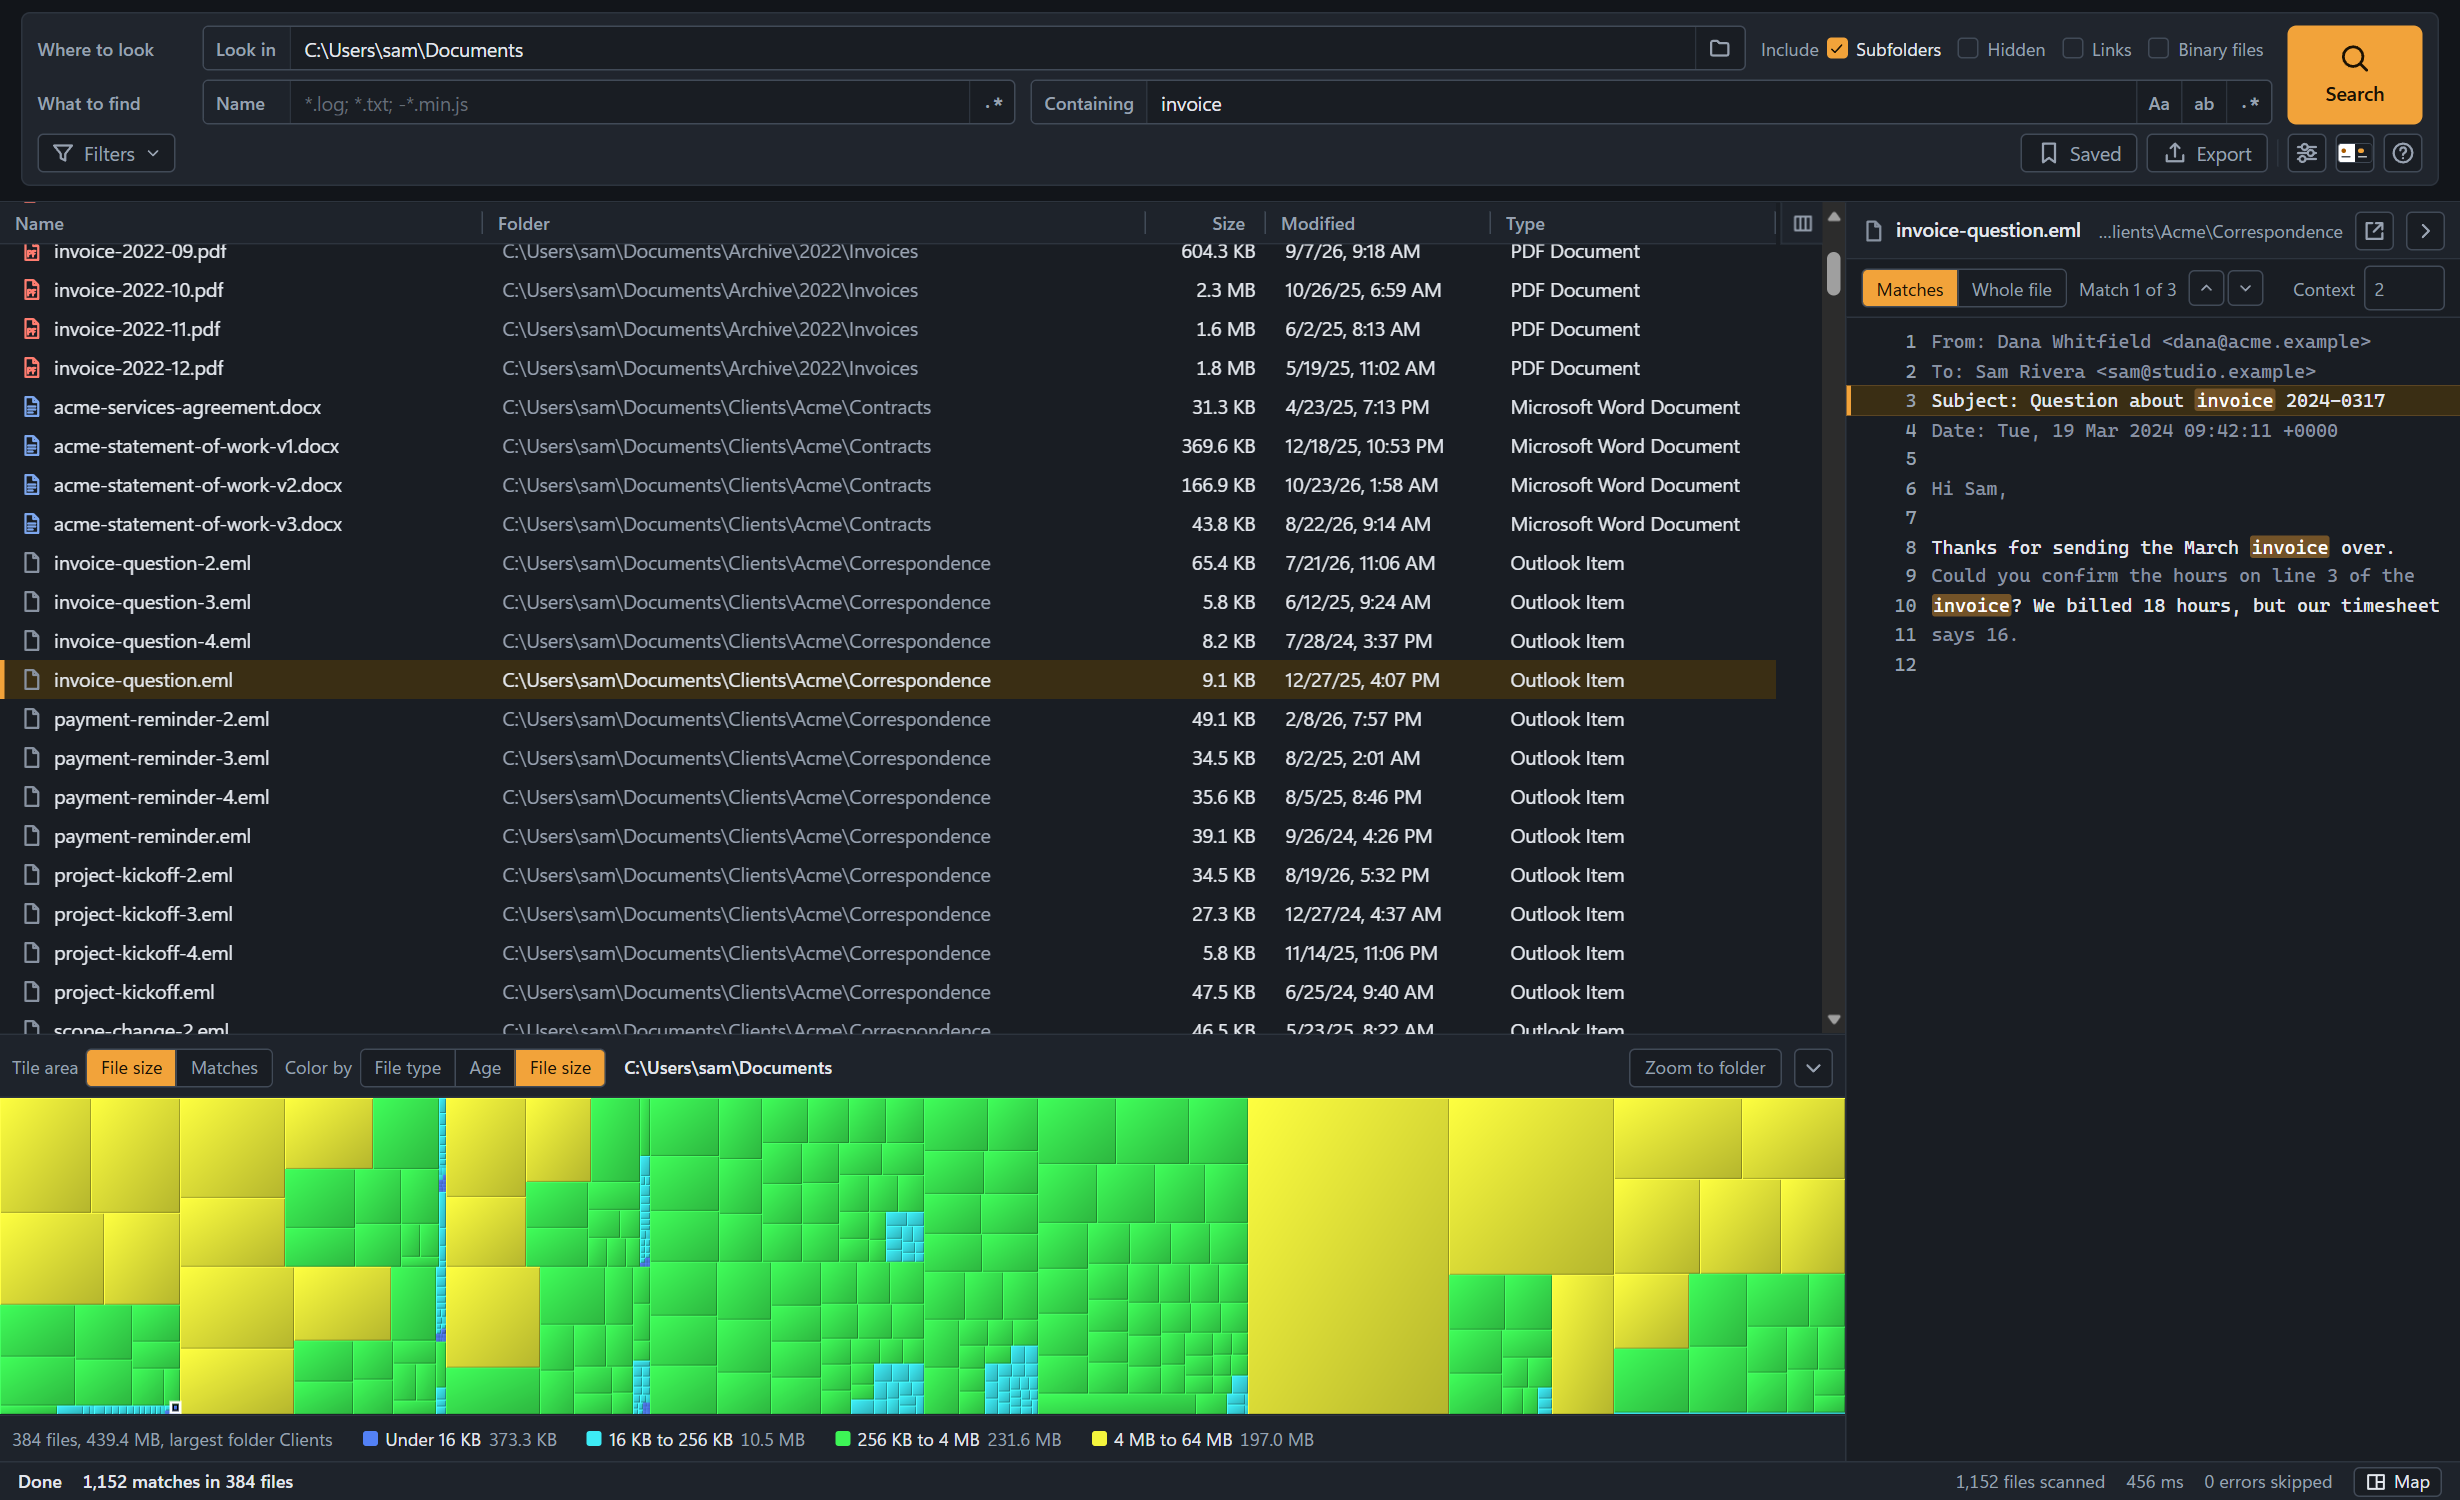
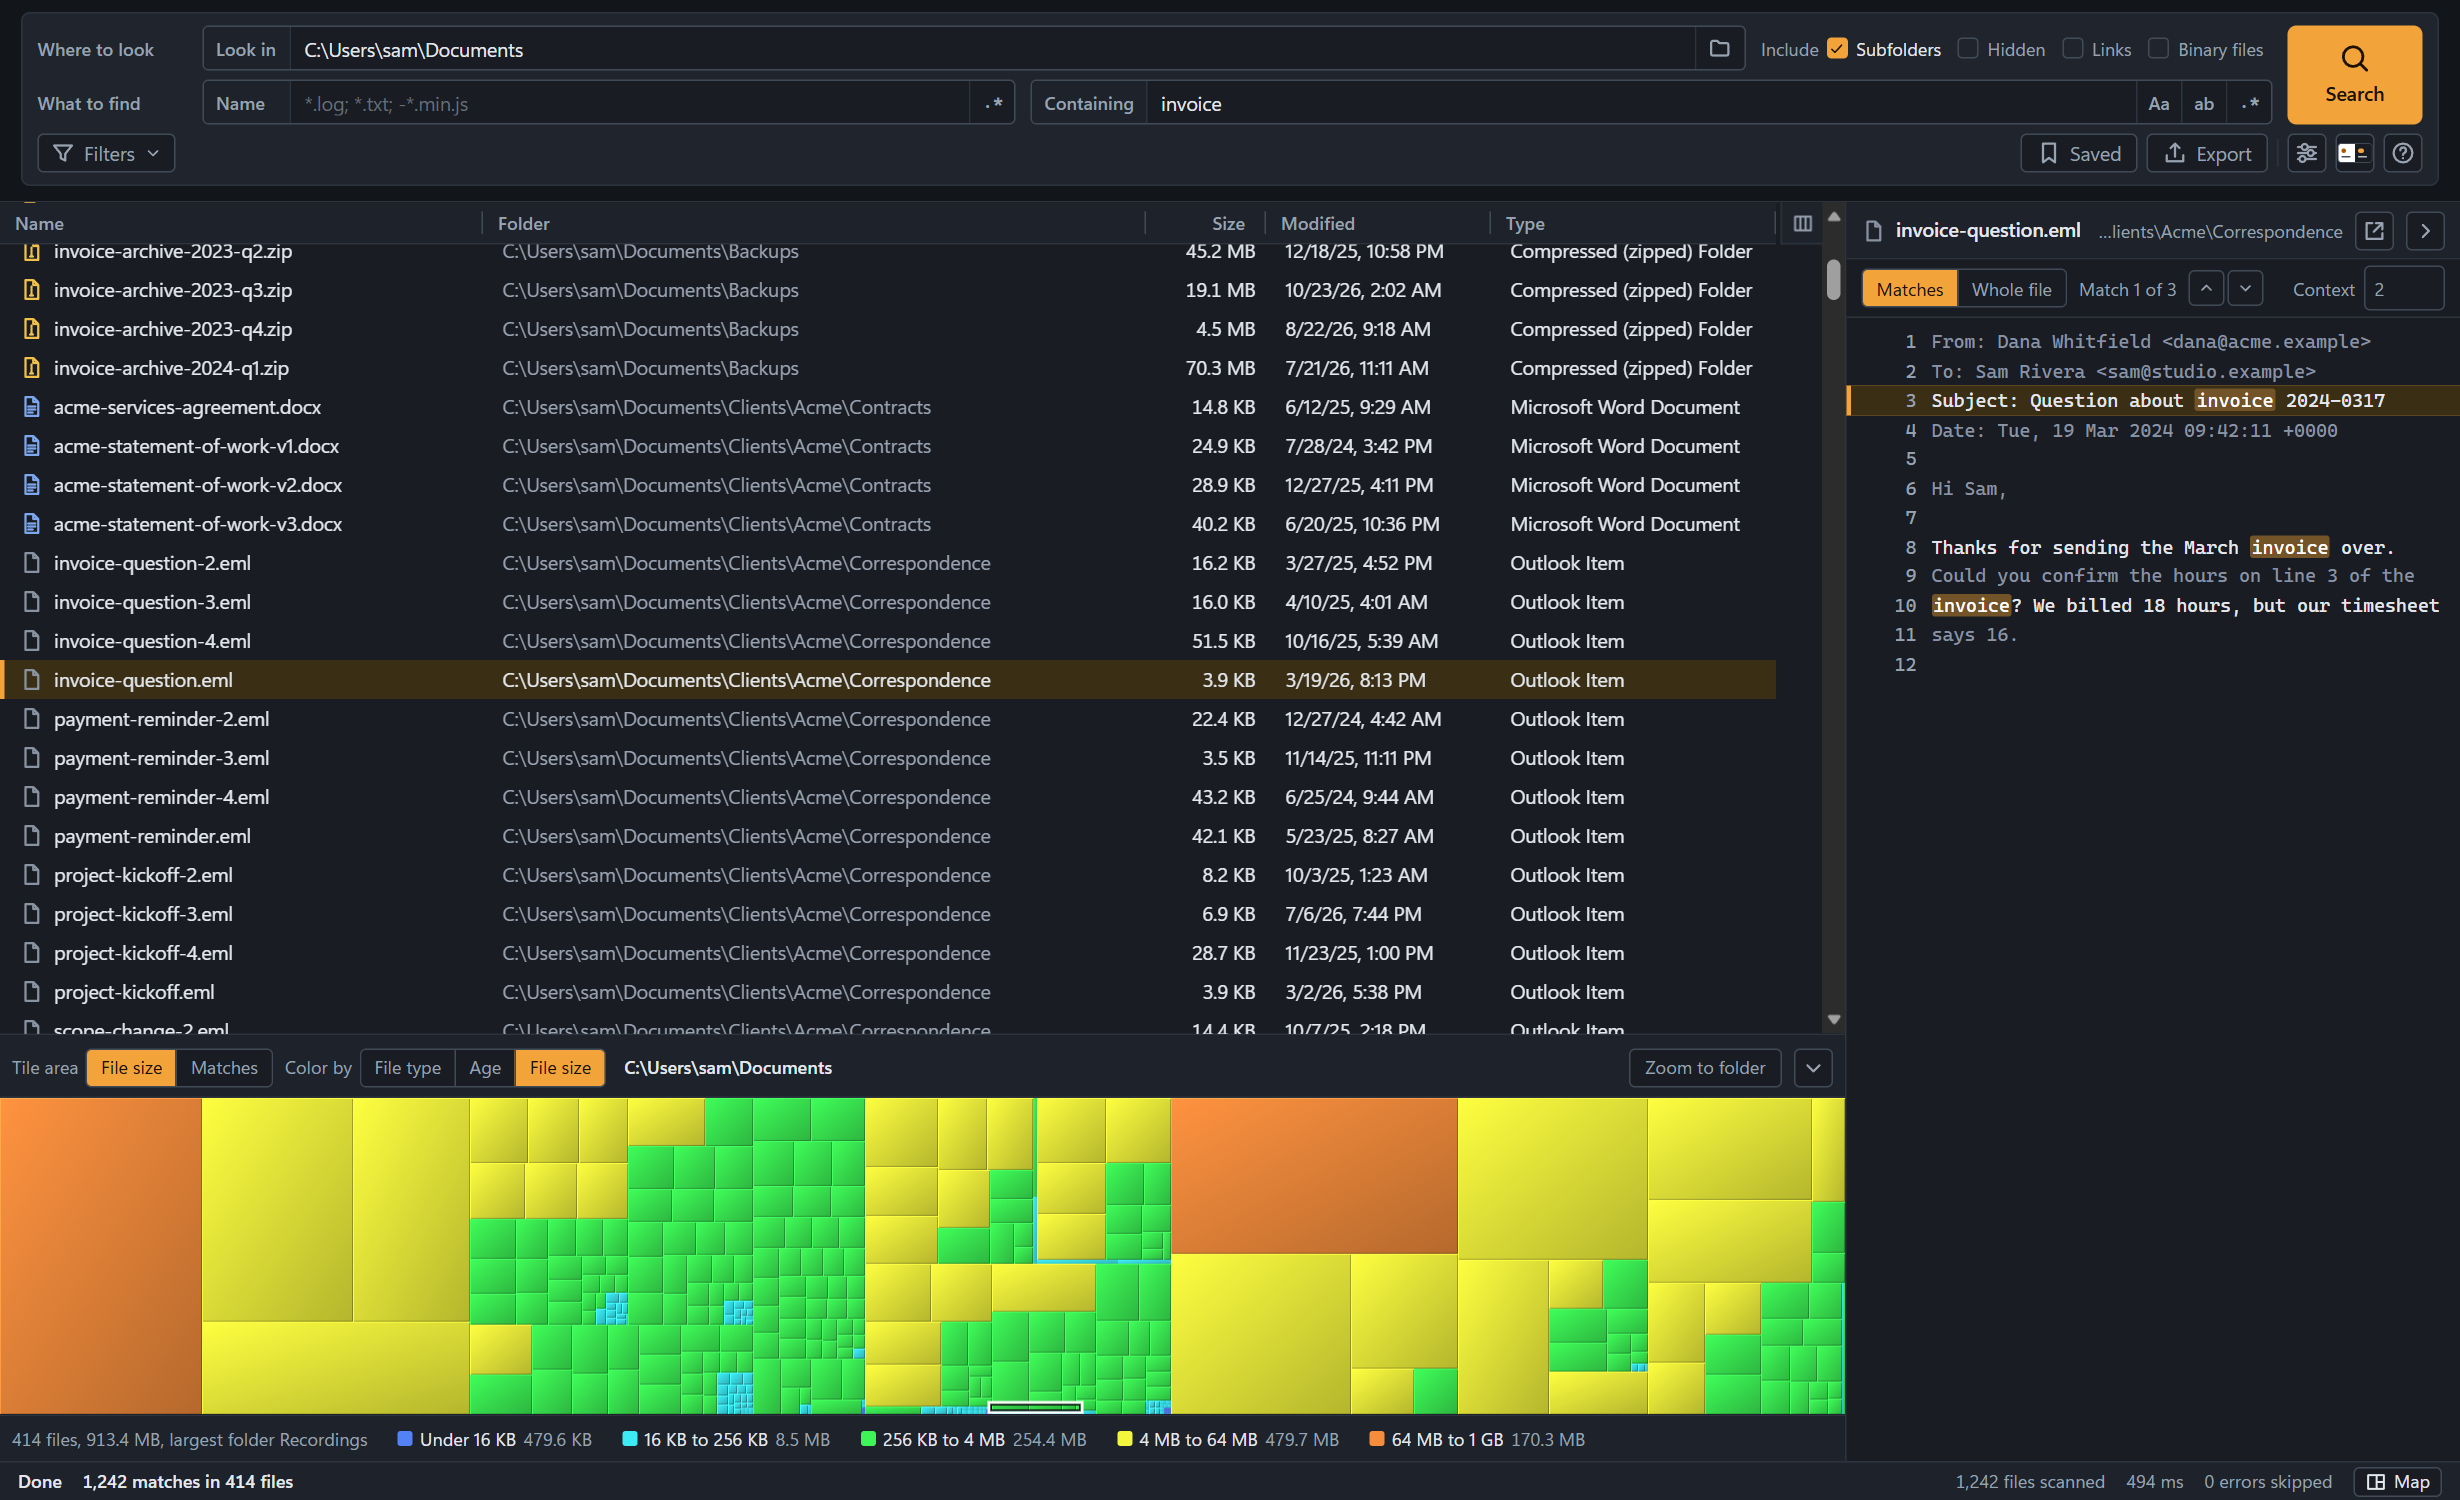
Give the demo file map more variety
The invented documents folder now has presentations, exports, notes, backups and recordings, and its sizes span five of the map's size bands, so the README screenshot shows a varied map. No single file may exceed a sixth of the total, so one tile cannot swamp the rest.

diff --git a/src/lib/demoFixture.ts b/src/lib/demoFixture.ts
@@ -17,17 +17,22 @@ export const DEMO_NOTE_PATH = `${ROOT}\\Clients\\Acme\\Correspondence\\invoice-q
 const MB = 1024 * 1024;
 const DAY_MS = 86_400_000;
 
-type Kind = 'pdf' | 'docx' | 'xlsx' | 'md' | 'png' | 'jpg' | 'eml';
+type Kind = 'pdf' | 'docx' | 'xlsx' | 'md' | 'png' | 'jpg' | 'eml' | 'zip' | 'mp4' | 'pptx' | 'csv' | 'txt';
 
 /** The type name Windows shows, and the size range (log-uniform, in bytes) for each kind of file. */
 const KINDS: Record<Kind, { typeName: string; minSize: number; maxSize: number }> = {
-  pdf: { typeName: 'PDF Document', minSize: 60 * 1024, maxSize: 3 * MB },
-  docx: { typeName: 'Microsoft Word Document', minSize: 30 * 1024, maxSize: 700 * 1024 },
-  xlsx: { typeName: 'Microsoft Excel Worksheet', minSize: 20 * 1024, maxSize: 900 * 1024 },
-  md: { typeName: 'Markdown File', minSize: 2 * 1024, maxSize: 40 * 1024 },
+  pdf: { typeName: 'PDF Document', minSize: 40 * 1024, maxSize: 6 * MB },
+  docx: { typeName: 'Microsoft Word Document', minSize: 12 * 1024, maxSize: 700 * 1024 },
+  xlsx: { typeName: 'Microsoft Excel Worksheet', minSize: 8 * 1024, maxSize: 2 * MB },
+  md: { typeName: 'Markdown File', minSize: 1024, maxSize: 40 * 1024 },
   png: { typeName: 'PNG File', minSize: 300 * 1024, maxSize: 8 * MB },
   jpg: { typeName: 'JPEG Image', minSize: 200 * 1024, maxSize: 4 * MB },
-  eml: { typeName: 'Outlook Item', minSize: 5 * 1024, maxSize: 80 * 1024 },
+  eml: { typeName: 'Outlook Item', minSize: 3 * 1024, maxSize: 80 * 1024 },
+  zip: { typeName: 'Compressed (zipped) Folder', minSize: 3 * MB, maxSize: 90 * MB },
+  mp4: { typeName: 'MP4 Video', minSize: 30 * MB, maxSize: 95 * MB },
+  pptx: { typeName: 'Microsoft PowerPoint Presentation', minSize: 1 * MB, maxSize: 40 * MB },
+  csv: { typeName: 'Microsoft Excel Comma Separated Values File', minSize: 4 * 1024, maxSize: 4 * MB },
+  txt: { typeName: 'Text Document', minSize: 400, maxSize: 30 * 1024 },
 };
 
 const CLIENTS = ['Acme', 'Globex', 'Initech', 'Umbrella', 'Hooli'];
@@ -86,6 +91,14 @@ function entries(random: () => number): Entry[] {
   add('Projects\\site-redesign\\docs', 'invoice-template.docx', 'docx');
   for (const name of ['billing-flow', 'onboarding', 'release-checklist', 'api-notes']) add('Projects\\mobile-app\\specs', `${name}.md`, 'md');
   for (let number = 1; number <= 18; number++) add('Projects\\mobile-app\\design', `mockup-${String(number).padStart(2, '0')}.png`, 'png');
+
+  for (const quarter of ['q1', 'q2', 'q3', 'q4']) add('Finance\\Exports', `invoices-export-${quarter}-2024.csv`, 'csv');
+  for (const client of CLIENTS) add('Finance\\Exports', `invoices-${client.toLowerCase()}-all-time.csv`, 'csv');
+  for (const name of ['pricing', 'kickoff-template', 'quarterly-review', 'pitch', 'training']) add('Presentations', `${name}-invoice-process.pptx`, 'pptx');
+  for (const name of ['todo', 'phone-numbers', 'invoice-reminders', 'ideas', 'passwords-hint', 'shopping', 'travel']) add('Notes', `${name}.txt`, 'txt');
+  for (const quarter of ['2023-q1', '2023-q2', '2023-q3', '2023-q4', '2024-q1']) add('Backups', `invoice-archive-${quarter}.zip`, 'zip');
+  for (const month of ['03', '06', '09']) add('Recordings\\Walkthroughs', `billing-walkthrough-2024-${month}.mp4`, 'mp4');
+  add('Recordings\\Walkthroughs', 'invoice-system-demo-full.mp4', 'mp4', 100 * MB);
 
   add('Archive\\2022', 'year-end-report.pdf', 'pdf', 48 * MB);
   add('Archive\\2022', 'scans-2022.pdf', 'pdf', 22 * MB);

diff --git a/src/lib/demoFixture.test.ts b/src/lib/demoFixture.test.ts
@@ -2,6 +2,7 @@ import { describe, expect, it } from 'vitest';
 import { DEMO_NOTE_PATH, DEMO_QUERY, demoPreview, demoRows } from './demoFixture';
 
 const NOW = Date.UTC(2026, 5, 15, 12, 0, 0);
+const MB = 1024 * 1024;
 
 describe('the demo fixture', () => {
   it('is the same every time it is made for the same moment', () => {
@@ -18,7 +19,7 @@ describe('the demo fixture', () => {
   it('is big enough to fill a map, with each path once and a hit in every file', () => {
     const rows = demoRows(NOW);
     expect(rows.length).toBeGreaterThanOrEqual(250);
-    expect(rows.length).toBeLessThanOrEqual(450);
+    expect(rows.length).toBeLessThanOrEqual(500);
     expect(new Set(rows.map((row) => row.path)).size).toBe(rows.length);
     for (const row of rows) expect(row.hits, row.path).toBeGreaterThanOrEqual(1);
   });
@@ -28,6 +29,15 @@ describe('the demo fixture', () => {
     expect(new Set(rows.map((row) => row.typeName)).size).toBeGreaterThanOrEqual(6);
     expect(rows.some((row) => row.size > 40 * 1024 * 1024)).toBe(true);
     expect(rows.filter((row) => row.size < 100 * 1024).length).toBeGreaterThan(40);
+  });
+
+  it('puts files in the size bands from tiny to 64 MB and over, with none so big it swamps the map', () => {
+    const rows = demoRows(NOW);
+    const limits = [16 * 1024, 256 * 1024, 4 * MB, 64 * MB];
+    const bandOf = (size: number) => limits.filter((limit) => size >= limit).length;
+    expect([...new Set(rows.map((row) => bandOf(row.size)))].sort()).toEqual([0, 1, 2, 3, 4]);
+    const total = rows.reduce((sum, row) => sum + row.size, 0);
+    expect(Math.max(...rows.map((row) => row.size))).toBeLessThan(total / 6);
   });
 
   it('lists the folders in name order, as a search does', () => {

diff --git a/scratchpad_edit.py b/scratchpad_edit.py
@@ -1,0 +1,39 @@
+p='src/lib/demoFixture.ts'
+s=open(p,encoding='utf-8',newline='').read()
+nl='\r\n' if '\r\n' in s else '\n'
+t=s.replace('\r\n','\n')
+pairs=[
+("type Kind = 'pdf' | 'docx' | 'xlsx' | 'md' | 'png' | 'jpg' | 'eml';","type Kind = 'pdf' | 'docx' | 'xlsx' | 'md' | 'png' | 'jpg' | 'eml' | 'zip' | 'mp4' | 'pptx' | 'csv' | 'txt';"),
+("  pdf: { typeName: 'PDF Document', minSize: 60 * 1024, maxSize: 3 * MB },\n  docx: { typeName: 'Microsoft Word Document', minSize: 30 * 1024, maxSize: 700 * 1024 },\n  xlsx: { typeName: 'Microsoft Excel Worksheet', minSize: 20 * 1024, maxSize: 900 * 1024 },\n  md: { typeName: 'Markdown File', minSize: 2 * 1024, maxSize: 40 * 1024 },",
+ "  pdf: { typeName: 'PDF Document', minSize: 40 * 1024, maxSize: 6 * MB },\n  docx: { typeName: 'Microsoft Word Document', minSize: 12 * 1024, maxSize: 700 * 1024 },\n  xlsx: { typeName: 'Microsoft Excel Worksheet', minSize: 8 * 1024, maxSize: 2 * MB },\n  md: { typeName: 'Markdown File', minSize: 1024, maxSize: 40 * 1024 },"),
+("  eml: { typeName: 'Outlook Item', minSize: 5 * 1024, maxSize: 80 * 1024 },\n};",
+ "  eml: { typeName: 'Outlook Item', minSize: 3 * 1024, maxSize: 80 * 1024 },\n  zip: { typeName: 'Compressed (zipped) Folder', minSize: 4 * MB, maxSize: 300 * MB },\n  mp4: { typeName: 'MP4 Video', minSize: 60 * MB, maxSize: 900 * MB },\n  pptx: { typeName: 'Microsoft PowerPoint Presentation', minSize: 1 * MB, maxSize: 40 * MB },\n  csv: { typeName: 'Microsoft Excel Comma Separated Values File', minSize: 4 * 1024, maxSize: 4 * MB },\n  txt: { typeName: 'Text Document', minSize: 400, maxSize: 30 * 1024 },\n};"),
+("  add('Archive\\2022', 'year-end-report.pdf', 'pdf', 48 * MB);",
+ """  for (const quarter of ['q1', 'q2', 'q3', 'q4']) add('Finance\\Exports', `invoices-export-${quarter}-2024.csv`, 'csv');
+  for (const client of CLIENTS) add('Finance\\Exports', `invoices-${client.toLowerCase()}-all-time.csv`, 'csv');
+  for (const name of ['pricing', 'kickoff-template', 'quarterly-review', 'pitch', 'training']) add('Presentations', `${name}-invoice-process.pptx`, 'pptx');
+  for (const name of ['todo', 'phone-numbers', 'invoice-reminders', 'ideas', 'passwords-hint', 'shopping', 'travel']) add('Notes', `${name}.txt`, 'txt');
+  for (const quarter of ['2023-q1', '2023-q2', '2023-q3', '2023-q4', '2024-q1']) add('Backups', `invoice-archive-${quarter}.zip`, 'zip');
+  for (const month of ['03', '06', '09']) add('Recordings\\Walkthroughs', `billing-walkthrough-2024-${month}.mp4`, 'mp4');
+  add('Recordings\\Walkthroughs', 'invoice-system-demo-full.mp4', 'mp4', 1.4 * 1024 * MB);
+  add('Archive\\2022', 'year-end-report.pdf', 'pdf', 48 * MB);"""),
+]
+for a,b in pairs:
+    assert a in t,a[:60]
+    t=t.replace(a,b,1)
+open(p,'w',encoding='utf-8',newline='').write(t.replace('\n',nl))
+p='src/lib/demoFixture.test.ts'
+s=open(p,encoding='utf-8',newline='').read()
+s=s.replace("toBeLessThanOrEqual(450)","toBeLessThanOrEqual(500)")
+s=s.replace("""    expect(rows.filter((row) => row.size < 100 * 1024).length).toBeGreaterThan(40);
+""","""    expect(rows.filter((row) => row.size < 100 * 1024).length).toBeGreaterThan(40);
+  });
+
+  it('puts files in every size band the map colors, so the map shows the whole range', () => {
+    const rows = demoRows(NOW);
+    const bands = [16 * 1024, 256 * 1024, 4 * 1024 * 1024, 64 * 1024 * 1024, 1024 * 1024 * 1024];
+    const bandOf = (size: number) => bands.filter((limit) => size >= limit).length;
+    const seen = new Set(rows.map((row) => bandOf(row.size)));
+    expect([...seen].sort()).toEqual([0, 1, 2, 3, 4, 5]);
+""",1)
+open(p,'w',encoding='utf-8',newline='').write(s)
